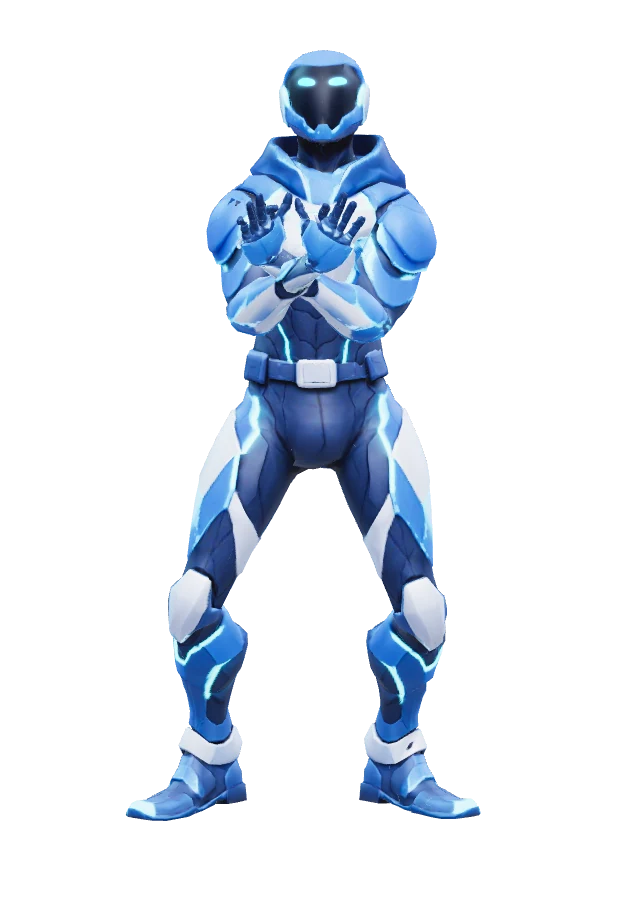
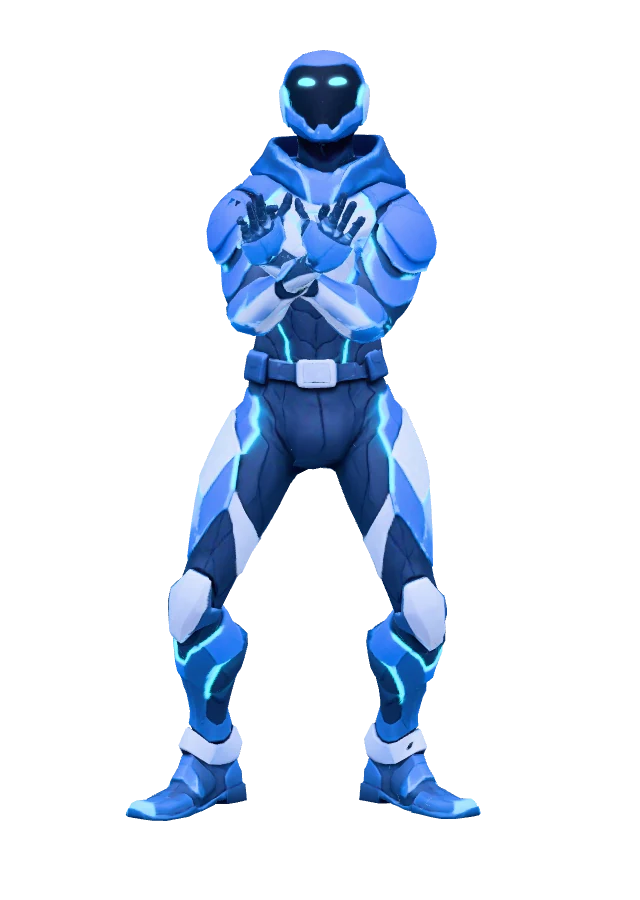
Azure: soft video-like lighting (matte armor, neutral tone mapping, halo)
- neutral tone mapping, strong soft ambient, weaker key and rims
- matte armor (no metal reflections), brighter glowing seams
- soft cyan halo around the figure, slightly denser floor shadow
- 2D frames re-rendered with the same look

Claude-Session: https://claude.ai/code/session_01HdTDkaoMVJGspDGXskbe46

Changed region(s): [[0.1875, 0.0311, 0.75, 0.9333]]

diff --git a/public/knight3d.js b/public/knight3d.js
@@ -23,22 +23,23 @@ export async function createKnight(host, { onReact = () => {} } = {}) {
   // ---------- renderer ----------
   const canvas = document.createElement('canvas');
   canvas.className = 'k3d';
-  Object.assign(canvas.style, { position: 'absolute', left: '-60%', width: '220%', top: '-30%', height: '130%', pointerEvents: 'none', opacity: '0', transition: 'opacity .4s' });
+  Object.assign(canvas.style, { position: 'absolute', left: '-60%', width: '220%', top: '-30%', height: '130%', pointerEvents: 'none', opacity: '0', transition: 'opacity .4s', filter: 'drop-shadow(0 0 14px rgba(120,225,255,.28))' });
   host.appendChild(canvas);
   const R = new THREE.WebGLRenderer({ canvas, antialias: true, alpha: true, preserveDrawingBuffer: DBG.has('shot') });
   R.setPixelRatio(Math.min(devicePixelRatio, 2));
-  R.outputColorSpace = THREE.SRGBColorSpace; R.toneMapping = THREE.ACESFilmicToneMapping; R.toneMappingExposure = num('exp', 1.0);
+  R.outputColorSpace = THREE.SRGBColorSpace; R.toneMapping = DBG.get('tm') === 'a' ? THREE.ACESFilmicToneMapping : THREE.NeutralToneMapping; R.toneMappingExposure = num('exp', 1.0);
   R.shadowMap.enabled = true; R.shadowMap.type = THREE.PCFSoftShadowMap;
   const S = new THREE.Scene();
   S.environment = new THREE.PMREMGenerator(R).fromScene(new RoomEnvironment(), 0.04).texture;
+  // neutral tone mapping + matte armor keep the soft pastel look of the promo video
   // lit like the promo video: soft cool fill, a key from the front-right, strong cyan rims on both sides of the silhouette
-  S.add(new THREE.HemisphereLight(0xd6e6ff, 0x101c40, num('hemi', 0.75)));
-  const key = new THREE.DirectionalLight(0xf4f8ff, num('key', 1.9)); key.position.set(1.2, 3, 3); key.castShadow = true; key.shadow.mapSize.set(1024, 1024);
+  S.add(new THREE.HemisphereLight(0xe6f6ff, 0x35556f, num('hemi', 2.4)));
+  const key = new THREE.DirectionalLight(0xf4f8ff, num('key', 0.7)); key.position.set(1.2, 3, 3); key.castShadow = true; key.shadow.mapSize.set(1024, 1024);
   Object.assign(key.shadow.camera, { left: -1.6, right: 1.6, top: 2.2, bottom: -0.6 }); S.add(key);
-  const rim = new THREE.DirectionalLight(0x7fe0ff, num('rim', 3.2)); rim.position.set(-2.2, 1.8, -2); S.add(rim);
-  const rim2 = new THREE.DirectionalLight(0x9fc8ff, num('rim', 3.2) * 0.8); rim2.position.set(2.2, 1.6, -2); S.add(rim2);
+  const rim = new THREE.DirectionalLight(0x7fe0ff, num('rim', 1.2)); rim.position.set(-2.2, 1.8, -2); S.add(rim);
+  const rim2 = new THREE.DirectionalLight(0x9fc8ff, num('rim', 1.2) * 0.8); rim2.position.set(2.2, 1.6, -2); S.add(rim2);
   const fill = new THREE.DirectionalLight(0x8fb8ff, 0.5); fill.position.set(-1.5, 0.4, 2.5); S.add(fill);
-  const floor = new THREE.Mesh(new THREE.PlaneGeometry(4, 3), new THREE.ShadowMaterial({ opacity: 0.32 }));
+  const floor = new THREE.Mesh(new THREE.PlaneGeometry(4, 3), new THREE.ShadowMaterial({ opacity: 0.4 }));
   floor.rotation.x = -Math.PI / 2; floor.receiveShadow = true; S.add(floor);
   const C = new THREE.OrthographicCamera(-1, 1, 1, -1, 0.1, 50);
   C.position.set(0, 0.9, 10); C.lookAt(0, 0.9, 0);
@@ -60,7 +61,7 @@ export async function createKnight(host, { onReact = () => {} } = {}) {
   const knight = K.scene; knight.scale.setScalar(MODEL_SCALE); S.add(knight);
   const bone = n => { let b = null; knight.traverse(o => { if (o.name === n) b = o; }); return b; };
   let body = null;
-  knight.traverse(o => { if (o.isMesh) { o.castShadow = true; if (o.material) { o.material.envMapIntensity = num('env', 1.0); glowStripes(o.material); } } });
+  knight.traverse(o => { if (o.isMesh) { o.castShadow = true; if (o.material) { const m = o.material; m.envMapIntensity = num('env', 0.4); m.metalness = num('met', 0); m.roughness = num('rough', 1); glowStripes(m); m.emissiveIntensity = num('emi', 2.2); } } });
   knight.traverse(o => { if (o.isSkinnedMesh) { body = o; o.frustumCulled = false; } });
 
   // ---------- animation ----------

diff --git a/public/index.html b/public/index.html
@@ -5,7 +5,7 @@
 <meta name="viewport" content="width=device-width, initial-scale=1, viewport-fit=cover">
 <title>SECRA — приватный ИИ-агент на NEAR</title>
 <meta name="description" content="SECRA — голосовой ИИ-агент на NEAR: отвечает в защищённой среде и платит приватно через NEAR Intents">
-<link rel="stylesheet" href="app.css?v=secra9">
+<link rel="stylesheet" href="app.css?v=secra10">
 <link rel="manifest" href="manifest.webmanifest">
 <meta name="theme-color" content="#0a1638">
 <link rel="apple-touch-icon" href="icons/apple-180.png">
@@ -68,12 +68,12 @@
     <div class="bubble" id="bubble" aria-live="polite"></div>
     <button class="bexp" id="bexp" aria-label="Show more" type="button">⌄</button>
     <div class="char" id="char" role="img" aria-label="SECRA">
-      <img data-f="idle"  src="img/idle.webp?v=secra9"  alt="" class="show">
-      <img data-f="blink" src="img/blink.webp?v=secra9" alt="">
-      <img data-f="talk1" src="img/talk1.webp?v=secra9" alt="">
-      <img data-f="talk2" src="img/talk2.webp?v=secra9" alt="">
-      <img data-f="laugh" src="img/laugh.webp?v=secra9" alt="">
-      <img data-f="wave"  src="img/wave.webp?v=secra9"  alt="">
+      <img data-f="idle"  src="img/idle.webp?v=secra10"  alt="" class="show">
+      <img data-f="blink" src="img/blink.webp?v=secra10" alt="">
+      <img data-f="talk1" src="img/talk1.webp?v=secra10" alt="">
+      <img data-f="talk2" src="img/talk2.webp?v=secra10" alt="">
+      <img data-f="laugh" src="img/laugh.webp?v=secra10" alt="">
+      <img data-f="wave"  src="img/wave.webp?v=secra10"  alt="">
     </div>
   </div>
 

diff --git a/public/widget.js b/public/widget.js
@@ -34,7 +34,7 @@
 
   var btn = document.createElement('button');
   btn.className = 'snw-btn'; btn.type = 'button';
-  btn.innerHTML = '<img alt="" src="' + origin + '/img/idle.webp?v=secra9"><span>' + label + '<small>🔒 ' + (lang === 'ru' ? 'проверяемо приватно' : 'verifiably private') + '</small></span>';
+  btn.innerHTML = '<img alt="" src="' + origin + '/img/idle.webp?v=secra10"><span>' + label + '<small>🔒 ' + (lang === 'ru' ? 'проверяемо приватно' : 'verifiably private') + '</small></span>';
   var panel = document.createElement('div'); panel.className = 'snw-panel';
   var close = document.createElement('button'); close.className = 'snw-x'; close.type = 'button'; close.textContent = '✕'; close.setAttribute('aria-label', 'Close');
   panel.appendChild(close);

diff --git a/public/app.js b/public/app.js
@@ -1271,7 +1271,7 @@ const APP_SRC = (document.currentScript && document.currentScript.src) || locati
     else if(kind==='annoyed') speak(L.annoyed[Math.floor(Math.random()*L.annoyed.length)]);
     else if(kind==='poke' && Math.random()<0.5) speak(L.poke[Math.floor(Math.random()*L.poke.length)]);
   }
-  if(window.__use3d) import('./knight3d.js?v=13').then(m=>m.createKnight(charEl,{onReact})).then(k=>{
+  if(window.__use3d) import('./knight3d.js?v=14').then(m=>m.createKnight(charEl,{onReact})).then(k=>{
     K3D=k; window.__knight=k; stage.classList.add('k3d'); k.mode(mode); setTimeout(layoutBg,50);
   }).catch(e=>{ console.warn('3D knight failed, showing pictures',e); stage.classList.remove('k3d'); });
 
